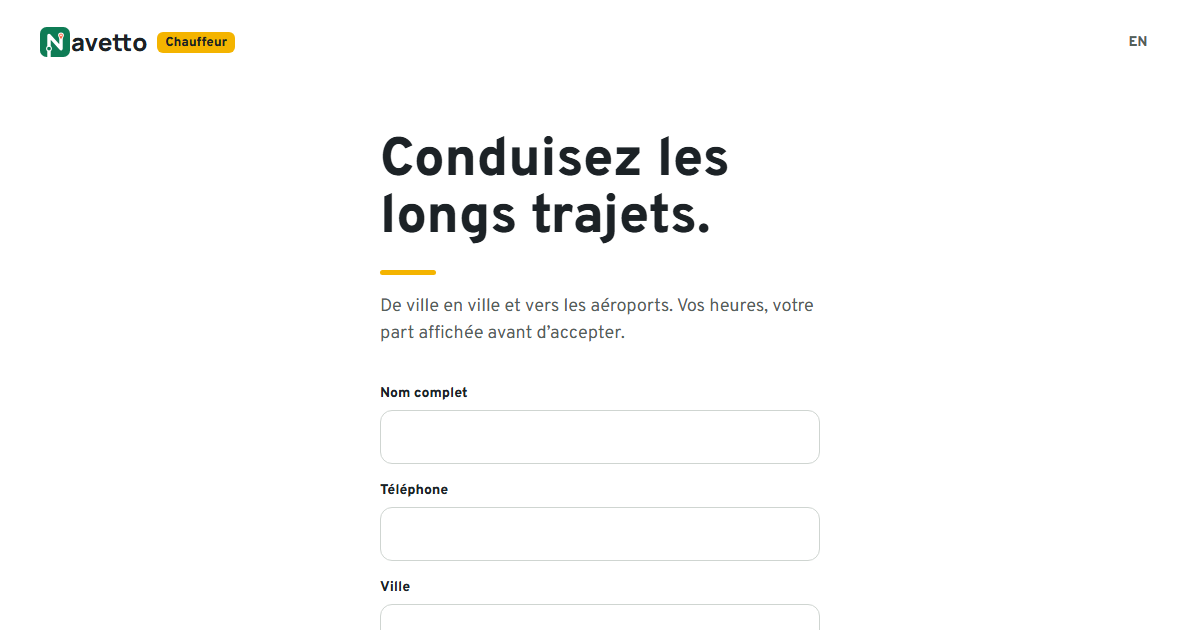
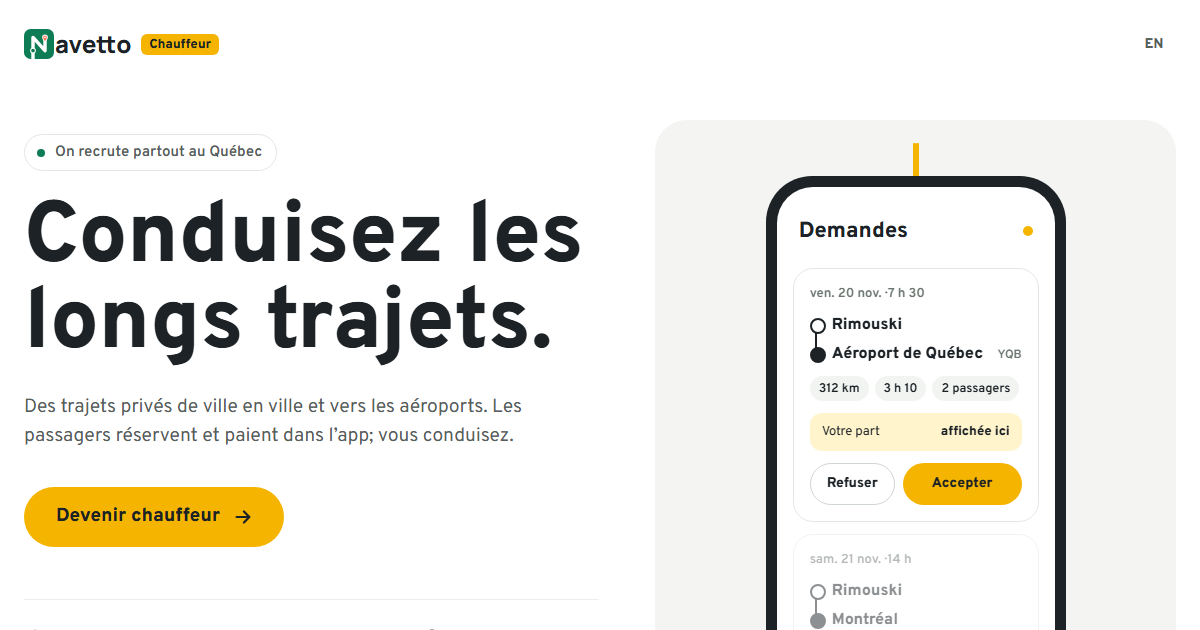
Modern one-screen page: the pitch and the button to the sign-up form, beside a phone showing a trip request
Sign-ups stay on the Google Form, so the Apps Script path is removed.

Claude-Session: https://claude.ai/code/session_013VA27wDWytYkh7ekptkCcB

diff --git a/README.md b/README.md
@@ -1,24 +1,21 @@
 # drive.navetto.ca: become a Navetto driver
 
-The public page that recruits drivers: why drive with Navetto, how it works, what you need, and a sign-up form.
+The public page that recruits drivers: the pitch and a button to the sign-up form.
 Québec French at `/`, English at `/en/`. Plain HTML and CSS built by `node build.mjs` (no dependencies), after
 navetto-ui-kit's design standard (the driver's caution yellow, Overpass).
 
 ## Where sign-ups go
-The form posts to a Google Apps Script web app (`apps-script/signup.gs`): each sign-up is a row in the "Site" tab of
-the *Navetto — Chauffeurs inscrits / Driver sign-ups* Google Sheet, and an email to bonjour@navetto.ca. Set up steps
-are at the top of that file. Its `/exec` address is the repository variable `SIGNUP_URL`.
+The button opens the Google Form *Navetto — Devenez chauffeur* (https://forms.gle/w7S7xDTgm4HiBfQj6); its answers fill
+the driver sign-ups Google Sheet.
 
 ## Run locally
 ```sh
-SIGNUP_URL=/signup SITE_URL=http://localhost:5190 node build.mjs
-node serve.mjs   # http://localhost:5190, sign-ups written to signups.log
+SITE_URL=http://localhost:5190 node build.mjs
+node serve.mjs   # http://localhost:5190
 ```
-On Git Bash, prefix with `MSYS_NO_PATHCONV=1` so `/signup` isn't turned into a Windows path.
 
 ## Publish
-`node publish.mjs <SIGNUP_URL>` builds the site for https://drive.navetto.ca and pushes it to the `gh-pages` branch,
+`node publish.mjs` builds the site for https://drive.navetto.ca and pushes it to the `gh-pages` branch,
 which GitHub Pages serves at the custom domain `drive.navetto.ca` (IONOS DNS: `CNAME drive → aminkhazri.github.io`).
 The `gh-pages` branch holds only built files and is replaced on each publish.
 
-The road photo is *Chemin Bombardier* by Mario Hains, CC BY-SA 3.0 (credited in the footer), from the driver app.
